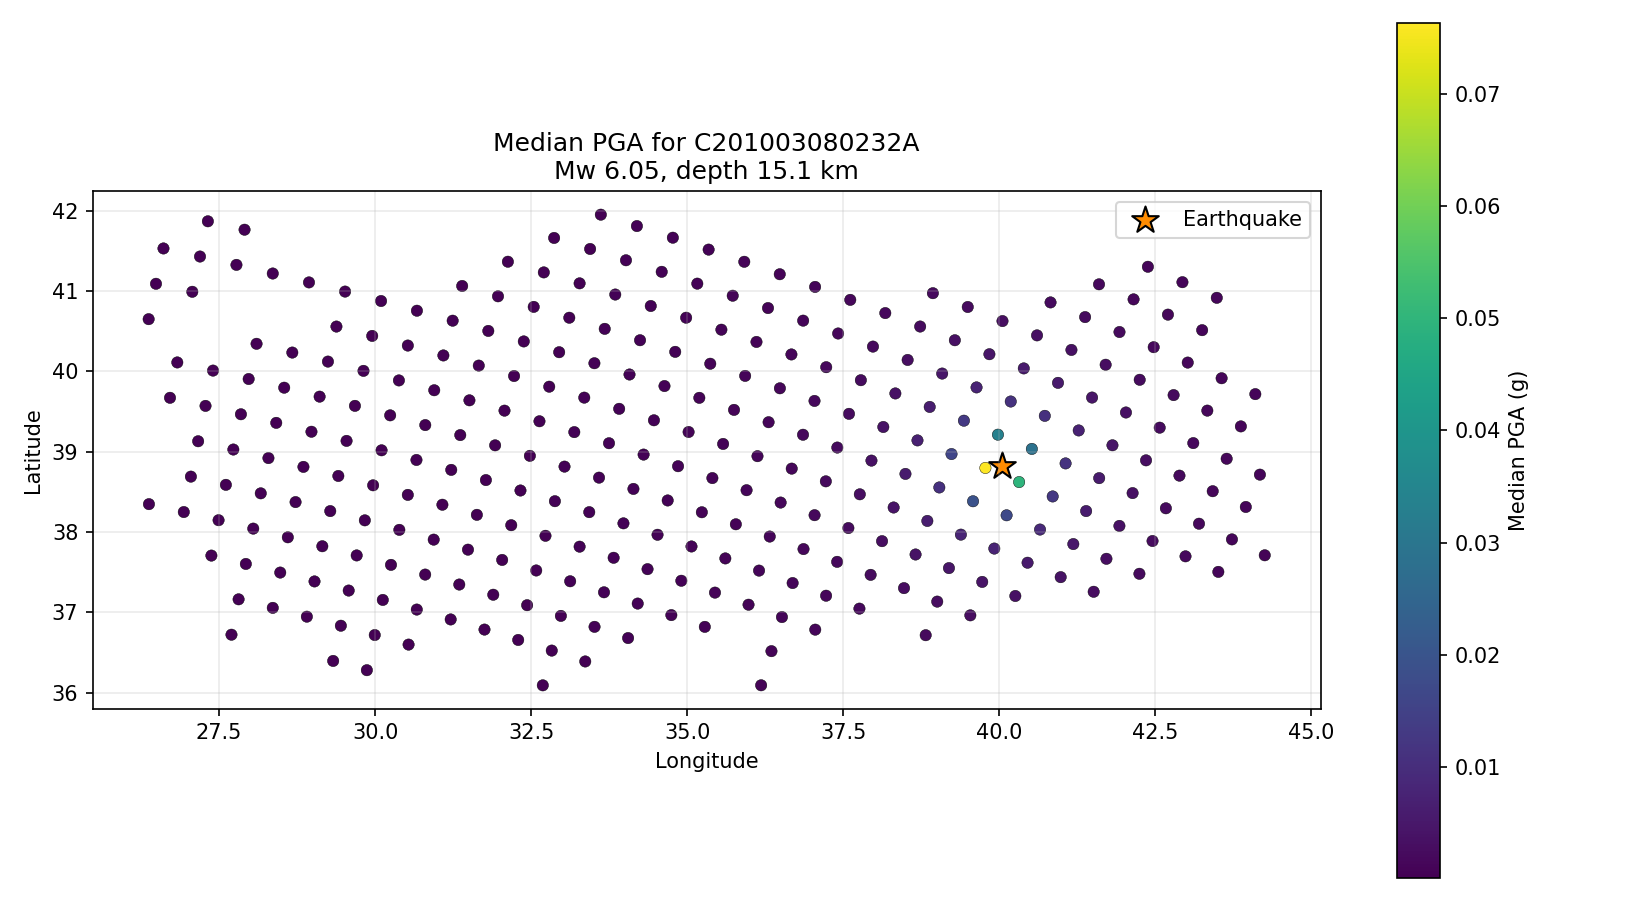
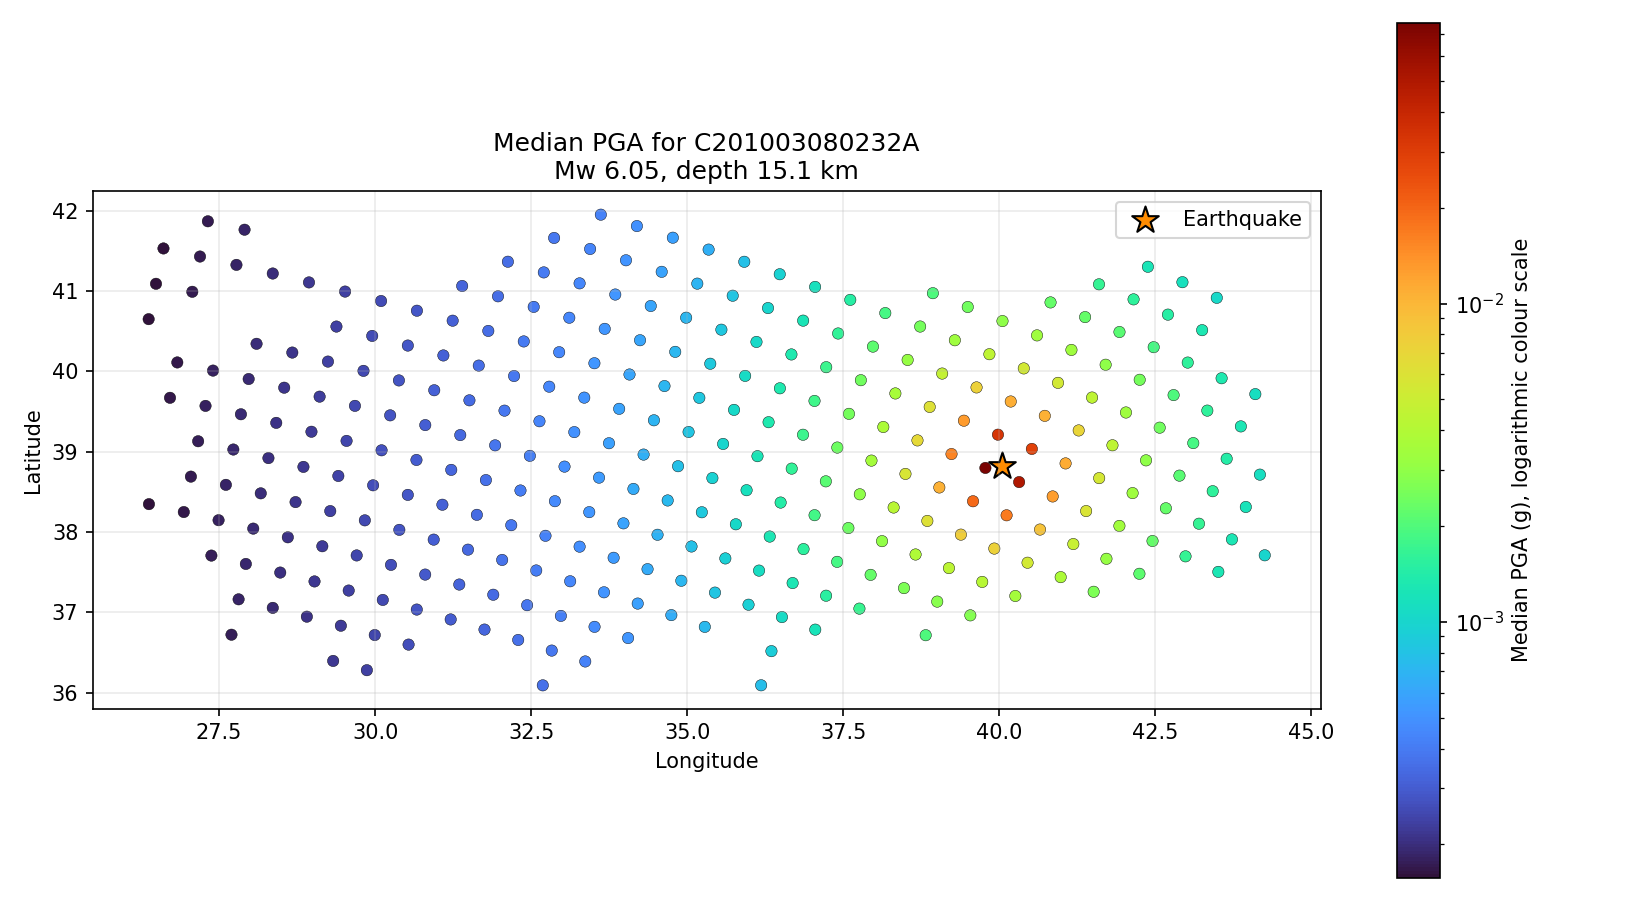
I standardised the PGA map colours to make comparisons clearer
The earlier PGA maps were harder to compare directly because their presentation was not fully standardised. I separated the plotting logic, made the colour treatment consistent across workflows and added tests.

diff --git a/tests/test_map_plotting.py b/tests/test_map_plotting.py
@@ -1,0 +1,88 @@
+import unittest
+
+import matplotlib
+
+matplotlib.use("Agg")
+
+import matplotlib.colors as mcolors
+import matplotlib.pyplot as plt
+import numpy as np
+import pandas as pd
+
+from map_plotting import (
+    POSITIVE_PGA_COLOR_MAP,
+    ZERO_PGA_COLOR,
+    plot_pga_receiver_points,
+)
+
+
+class PlotPgaReceiverPointsTests(unittest.TestCase):
+    def tearDown(self):
+        plt.close("all")
+
+    def make_map_results(self, pga_values):
+        number_of_values = len(pga_values)
+        return pd.DataFrame(
+            {
+                "receiver_longitude": np.arange(number_of_values, dtype=float),
+                "receiver_latitude": np.arange(number_of_values, dtype=float),
+                "median_pga_g": pga_values,
+            }
+        )
+
+    def test_zero_points_are_grey_and_positive_points_are_coloured(self):
+        fig, ax = plt.subplots()
+        map_results = self.make_map_results([0.0, 0.01, 0.1])
+
+        positive_points = plot_pga_receiver_points(ax, map_results)
+
+        self.assertEqual(len(ax.collections), 2)
+        zero_points = ax.collections[0]
+        np.testing.assert_allclose(zero_points.get_offsets(), [[0.0, 0.0]])
+        np.testing.assert_allclose(
+            zero_points.get_facecolors()[0],
+            mcolors.to_rgba(ZERO_PGA_COLOR),
+        )
+        self.assertEqual(zero_points.get_label(), "PGA = 0 g")
+        np.testing.assert_allclose(positive_points.get_array(), [0.01, 0.1])
+        self.assertIsInstance(positive_points.norm, mcolors.LogNorm)
+        self.assertEqual(positive_points.cmap.name, POSITIVE_PGA_COLOR_MAP)
+
+    def test_all_zero_points_are_grey_without_a_colour_bar_mappable(self):
+        fig, ax = plt.subplots()
+        map_results = self.make_map_results([0.0, 0.0])
+
+        positive_points = plot_pga_receiver_points(ax, map_results)
+
+        self.assertIsNone(positive_points)
+        self.assertEqual(len(ax.collections), 1)
+        np.testing.assert_allclose(
+            ax.collections[0].get_facecolors()[0],
+            mcolors.to_rgba(ZERO_PGA_COLOR),
+        )
+
+    def test_equal_positive_values_use_a_valid_linear_scale(self):
+        fig, ax = plt.subplots()
+        map_results = self.make_map_results([0.05, 0.05])
+
+        positive_points = plot_pga_receiver_points(ax, map_results)
+
+        self.assertIsInstance(positive_points.norm, mcolors.Normalize)
+        self.assertNotIsInstance(positive_points.norm, mcolors.LogNorm)
+
+    def test_invalid_pga_values_are_rejected(self):
+        for value, message in (
+            (-0.1, "cannot be negative"),
+            (np.nan, "must be finite"),
+            (np.inf, "must be finite"),
+        ):
+            with self.subTest(value=value):
+                fig, ax = plt.subplots()
+                map_results = self.make_map_results([value])
+
+                with self.assertRaisesRegex(ValueError, message):
+                    plot_pga_receiver_points(ax, map_results)
+
+
+if __name__ == "__main__":
+    unittest.main()

diff --git a/map_plotting.py b/map_plotting.py
@@ -1,0 +1,76 @@
+import matplotlib.colors as mcolors
+import numpy as np
+
+
+ZERO_PGA_COLOR = "#bdbdbd"
+POSITIVE_PGA_COLOR_MAP = "turbo"
+
+
+def plot_pga_receiver_points(ax, map_results):
+    required_columns = {
+        "receiver_longitude",
+        "receiver_latitude",
+        "median_pga_g",
+    }
+    missing_columns = required_columns.difference(map_results.columns)
+
+    if missing_columns:
+        missing_text = ", ".join(sorted(missing_columns))
+        raise ValueError(f"PGA map data is missing columns: {missing_text}.")
+
+    try:
+        longitudes = map_results["receiver_longitude"].to_numpy(float)
+        latitudes = map_results["receiver_latitude"].to_numpy(float)
+        pga_values = map_results["median_pga_g"].to_numpy(float)
+    except (TypeError, ValueError) as error:
+        raise ValueError("PGA map coordinates and values must be numeric.") from error
+
+    if (
+        not np.isfinite(longitudes).all()
+        or not np.isfinite(latitudes).all()
+    ):
+        raise ValueError("PGA map coordinates must be finite.")
+    if not np.isfinite(pga_values).all():
+        raise ValueError("PGA map values must be finite.")
+    if (pga_values < 0.0).any():
+        raise ValueError("PGA map values cannot be negative.")
+
+    zero_mask = pga_values == 0.0
+    positive_mask = pga_values > 0.0
+
+    if zero_mask.any():
+        ax.scatter(
+            longitudes[zero_mask],
+            latitudes[zero_mask],
+            color=ZERO_PGA_COLOR,
+            s=30,
+            edgecolor="black",
+            linewidth=0.2,
+            label="PGA = 0 g",
+        )
+
+    if not positive_mask.any():
+        return None
+
+    positive_pga = pga_values[positive_mask]
+    minimum_pga = float(positive_pga.min())
+    maximum_pga = float(positive_pga.max())
+
+    if minimum_pga == maximum_pga:
+        normalisation = mcolors.Normalize(vmin=0.0, vmax=maximum_pga)
+    else:
+        normalisation = mcolors.LogNorm(
+            vmin=minimum_pga,
+            vmax=maximum_pga,
+        )
+
+    return ax.scatter(
+        longitudes[positive_mask],
+        latitudes[positive_mask],
+        c=positive_pga,
+        cmap=POSITIVE_PGA_COLOR_MAP,
+        norm=normalisation,
+        s=30,
+        edgecolor="black",
+        linewidth=0.2,
+    )

diff --git a/akkar_turkey_portfolio_gwfm.py b/akkar_turkey_portfolio_gwfm.py
@@ -11,6 +11,7 @@ import pandas as pd
 from openquake.hazardlib.gsim.akkar_2014 import AkkarEtAlRhyp2014
 from openquake.hazardlib.imt import PGA, PGV, SA
 
+from map_plotting import plot_pga_receiver_points
 from prepare_gwfm_catalogue import (
     print_distance_summary,
     select_gwfm_events,
@@ -297,15 +298,7 @@ def plot_pga_map(damage):
     event_id = event["event_id"]
 
     fig, ax = plt.subplots(figsize=(11, 6))
-    points = ax.scatter(
-        map_results["receiver_longitude"],
-        map_results["receiver_latitude"],
-        c=map_results["median_pga_g"],
-        cmap="viridis",
-        s=30,
-        edgecolor="black",
-        linewidth=0.2,
-    )
+    points = plot_pga_receiver_points(ax, map_results)
     ax.scatter(
         event["source_longitude"],
         event["source_latitude"],
@@ -323,8 +316,12 @@ def plot_pga_map(damage):
     )
     set_map_shape(ax, map_results["receiver_latitude"])
     ax.legend()
-    colorbar = fig.colorbar(points, ax=ax)
-    colorbar.set_label("Median PGA (g)")
+    if points is not None:
+        colorbar = fig.colorbar(points, ax=ax)
+        colorbar_label = "Median PGA (g)"
+        if isinstance(points.norm, matplotlib.colors.LogNorm):
+            colorbar_label += ", logarithmic colour scale"
+        colorbar.set_label(colorbar_label)
     fig.tight_layout()
     fig.savefig(OUTPUT_FOLDER / f"pga_map_{event_id}.png", dpi=150)
     plt.close(fig)

diff --git a/akkar_turkey_portfolio.py b/akkar_turkey_portfolio.py
@@ -11,6 +11,8 @@ import pandas as pd
 from openquake.hazardlib.gsim.akkar_2014 import AkkarEtAlRhyp2014
 from openquake.hazardlib.imt import PGA, PGV, SA
 
+from map_plotting import plot_pga_receiver_points
+
 
 # Input and output files
 CATALOGUE_FILE = Path("data/example_catalogue_gcmt_5.csv")
@@ -268,15 +270,7 @@ def plot_pga_map(damage):
     event_id = event["event_id"]
 
     fig, ax = plt.subplots(figsize=(11, 6))
-    points = ax.scatter(
-        map_results["receiver_longitude"],
-        map_results["receiver_latitude"],
-        c=map_results["median_pga_g"],
-        cmap="viridis",
-        s=30,
-        edgecolor="black",
-        linewidth=0.2,
-    )
+    points = plot_pga_receiver_points(ax, map_results)
     ax.scatter(
         event["source_longitude"],
         event["source_latitude"],
@@ -293,8 +287,12 @@ def plot_pga_map(damage):
     )
     set_map_shape(ax, map_results["receiver_latitude"])
     ax.legend()
-    colorbar = fig.colorbar(points, ax=ax)
-    colorbar.set_label("Median PGA (g)")
+    if points is not None:
+        colorbar = fig.colorbar(points, ax=ax)
+        colorbar_label = "Median PGA (g)"
+        if isinstance(points.norm, matplotlib.colors.LogNorm):
+            colorbar_label += ", logarithmic colour scale"
+        colorbar.set_label(colorbar_label)
     fig.tight_layout()
     fig.savefig(OUTPUT_FOLDER / f"pga_map_{event_id}.png", dpi=150)
     plt.close(fig)

diff --git a/PROJECT_WALKTHROUGH.md b/PROJECT_WALKTHROUGH.md
@@ -65,6 +65,10 @@ The script creates:
 - a map of the 311 exposure locations and all 117 earthquakes; and
 - a PGA map across the exposure grid for event `1421`.
 
+The PGA map shows exact zero values in grey. Positive values use the bright
+`turbo` colour map on a logarithmic scale so that low non-zero ground motions
+remain distinguishable.
+
 ## How to demonstrate it
 
 Install the requirements and run:

diff --git a/README.md b/README.md
@@ -53,6 +53,10 @@ Results are saved in `outputs_gwfm`:
 - `exposure_and_earthquakes.png`; and
 - `pga_map_1421.png`.
 
+The PGA map shows exact zero values in grey. Positive values use the bright
+`turbo` colour map on a logarithmic scale so that low non-zero ground motions
+remain distinguishable.
+
 ## Checks included
 
 Before calculating ground motion, the program:
